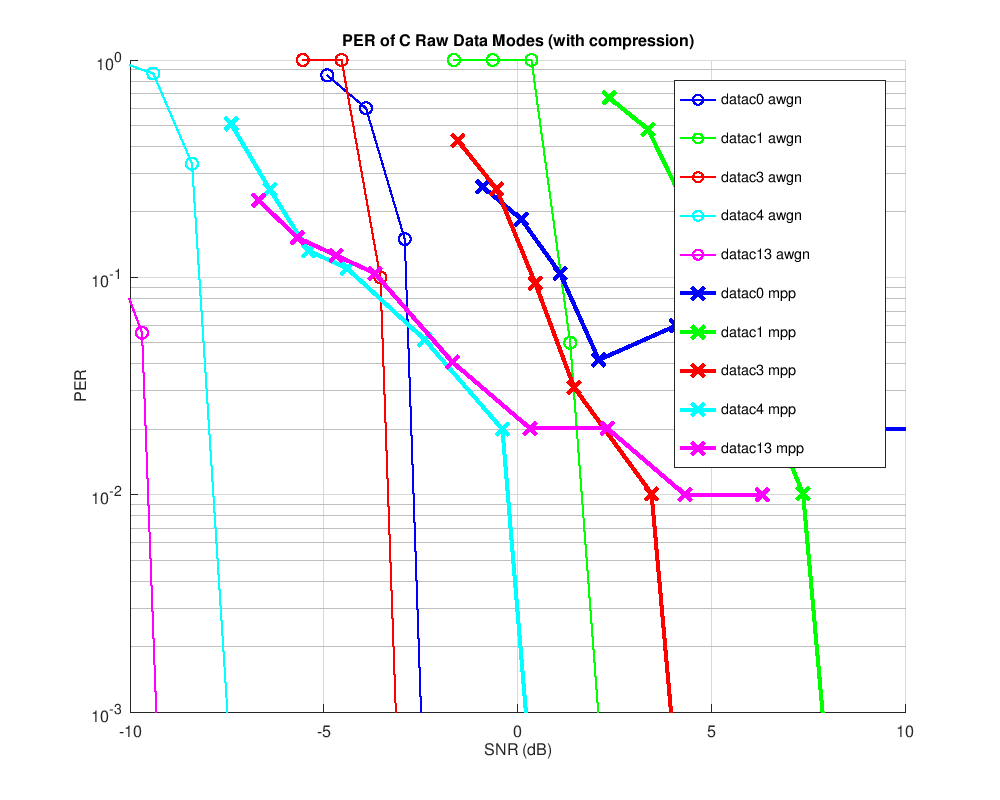
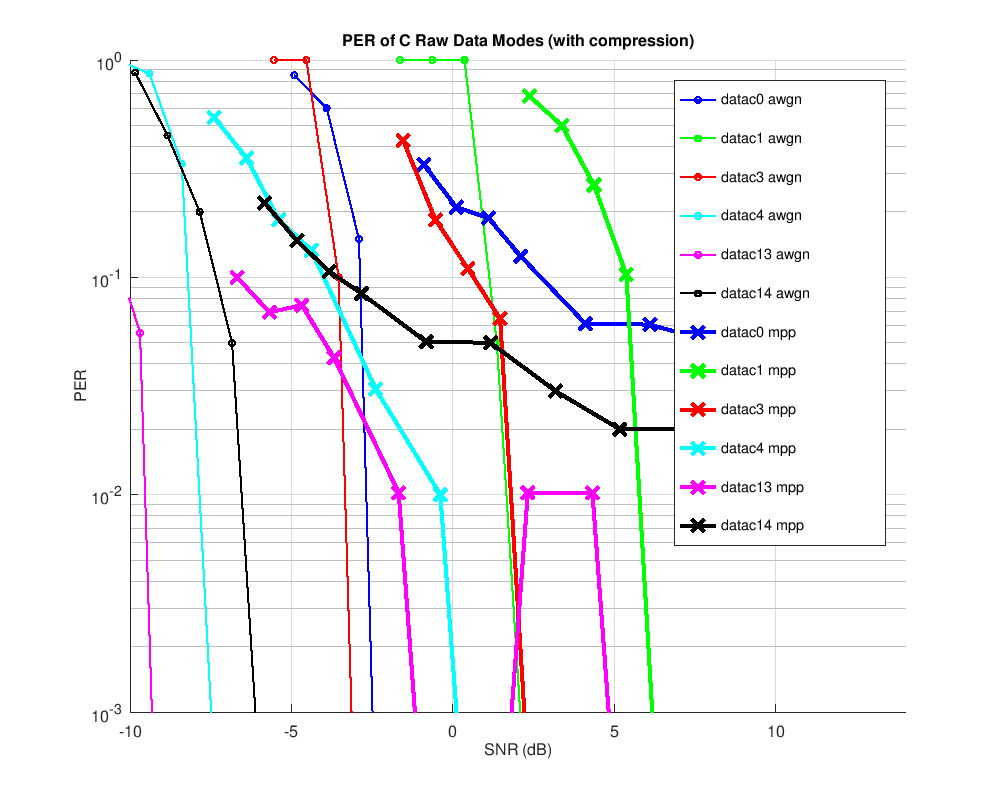
adjusted clipper in C & octave, regerenerated curves

diff --git a/octave/ofdm_mode.m b/octave/ofdm_mode.m
@@ -144,7 +144,7 @@ function config = ofdm_init_mode(mode="700D")
     config.tx_uw(end-24+1:end) = [1 1 0 0  1 0 1 0  1 1 1 1  0 0 0 0  1 1 1 1  0 0 0 0];
     config.amp_est_mode = 1; config.EsNodB = 3;
     config.state_machine = "data"; 
-    config.amp_scale = 2.5*300E3; config.clip_gain1 = 1.2; config.clip_gain2 = 1.0;
+    config.amp_scale = 2*300E3; config.clip_gain1 = 2; config.clip_gain2 = 1;
     config.txbpf_width_Hz = 400;
   elseif strcmp(mode,"1")
     Ns=5; config.Np=10; Tcp=0; Tframe = 0.1; Ts = Tframe/Ns; Nc = 1;

diff --git a/src/ofdm_mode.c b/src/ofdm_mode.c
@@ -247,8 +247,8 @@ void ofdm_init_mode(char mode[], struct OFDM_CONFIG *config) {
     memcpy(config->tx_uw, uw, sizeof(uw));
     memcpy(&config->tx_uw[config->nuwbits - sizeof(uw)], uw, sizeof(uw));
     config->data_mode = "streaming";
-    config->amp_scale = 2.5 * 300E3;
-    config->clip_gain1 = 1.2;
+    config->amp_scale = 2.0 * 300E3;
+    config->clip_gain1 = 2.0;
     config->clip_gain2 = 1.0;
     config->rx_bpf_en = true;
   } else {

diff --git a/README_data.md b/README_data.md
@@ -146,7 +146,7 @@ These modes use an OFDM modem with powerful LDPC codes and are designed for send
 | DATAC3 | 500 | 321 | 126 | (2048,1024) | 3.19 | 74/100 at 0dB | Forward link data (low SNR) |
 | DATAC4 | 250 | 87 | 56 | (1472,448) | 5.17 | 90/100 at -4dB | Forward link data (low SNR) |
 | DATAC13 | 200 | 64 | 14 | (384,128) | 2.0 | 90/100 at -4dB | Reverse link ACK packets (low SNR) |
-| DATAC14 | 250 | 58 | 3 | (112,56) | 0.69 | 90/100 at -4dB | Reverse link ACK packets (low SNR) |
+| DATAC14 | 250 | 58 | 3 | (112,56) | 0.69 | 90/100 at -2dB | Reverse link ACK packets (low SNR) |
 
 Notes:
 1. 16 bits (2 bytes) per frame are reserved for a 16 bit CRC, e.g. for `datac3` we have 128 byte frames, and 128-2=126 bytes/frame of payload data.
@@ -246,7 +246,7 @@ This command line demonstrates the effect:
 ```
 Try adjusting `--clip` and `No` argument of `ch` (noise level) for different modes.  Note the SNR estimates returned from `freedv_data_raw_rx` compared to the SNR from the channel simulator `ch`. You will notice clipping also increases the RMS power and reduces the PER for a given channel noise power.  CPAPR will also reduce with clipping enabled.
 
-The following plots illustrate the SNR estimates versus actual channel SNR with and without compression (clipping).  Not that even with the uncompressed waveform there is a small offset of around 1dB, possibly due to modem implementation loss or noise in the frequency, phase, or timing estimators.
+The following plots illustrate the SNR estimates versus actual channel SNR with and without compression (clipping).  Note that even with the uncompressed waveform there is a small offset of around 1dB, possibly due to modem implementation loss or noise in the frequency, phase, or timing estimators.
 
 ![](doc/snrest_snr_ctx.png)
 ![](doc/snrest_snr_ctxc.png)
